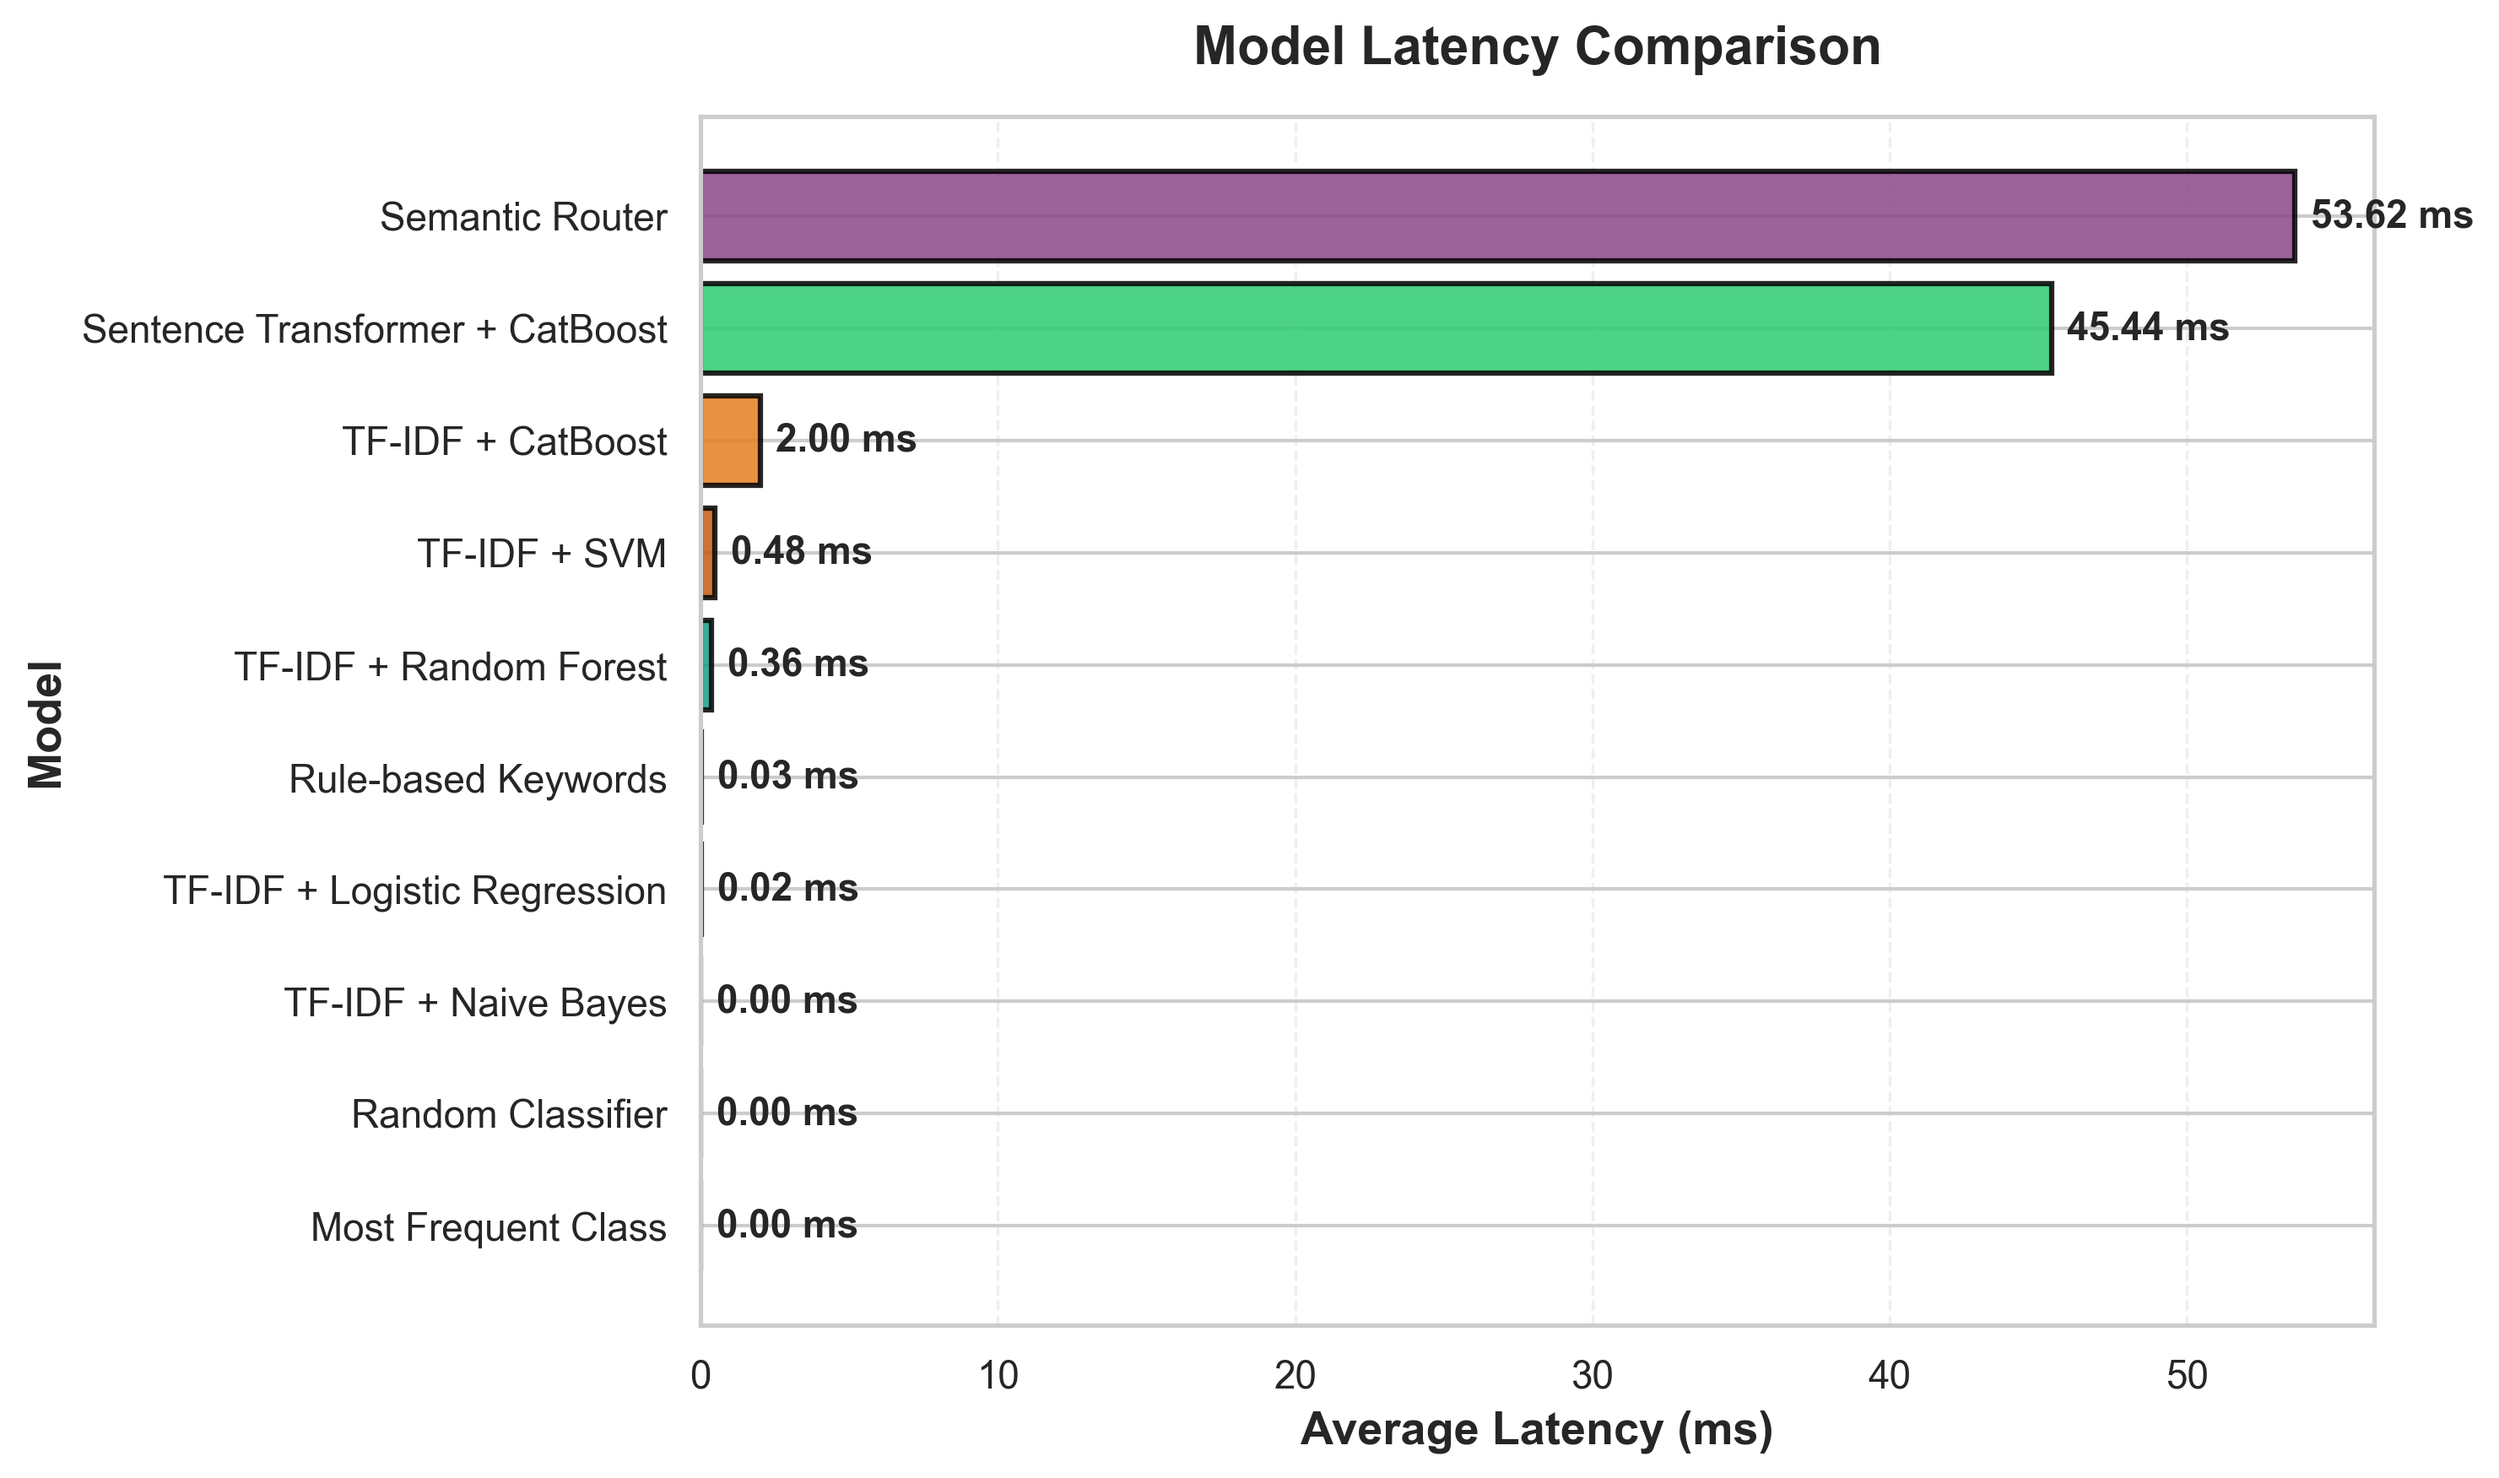
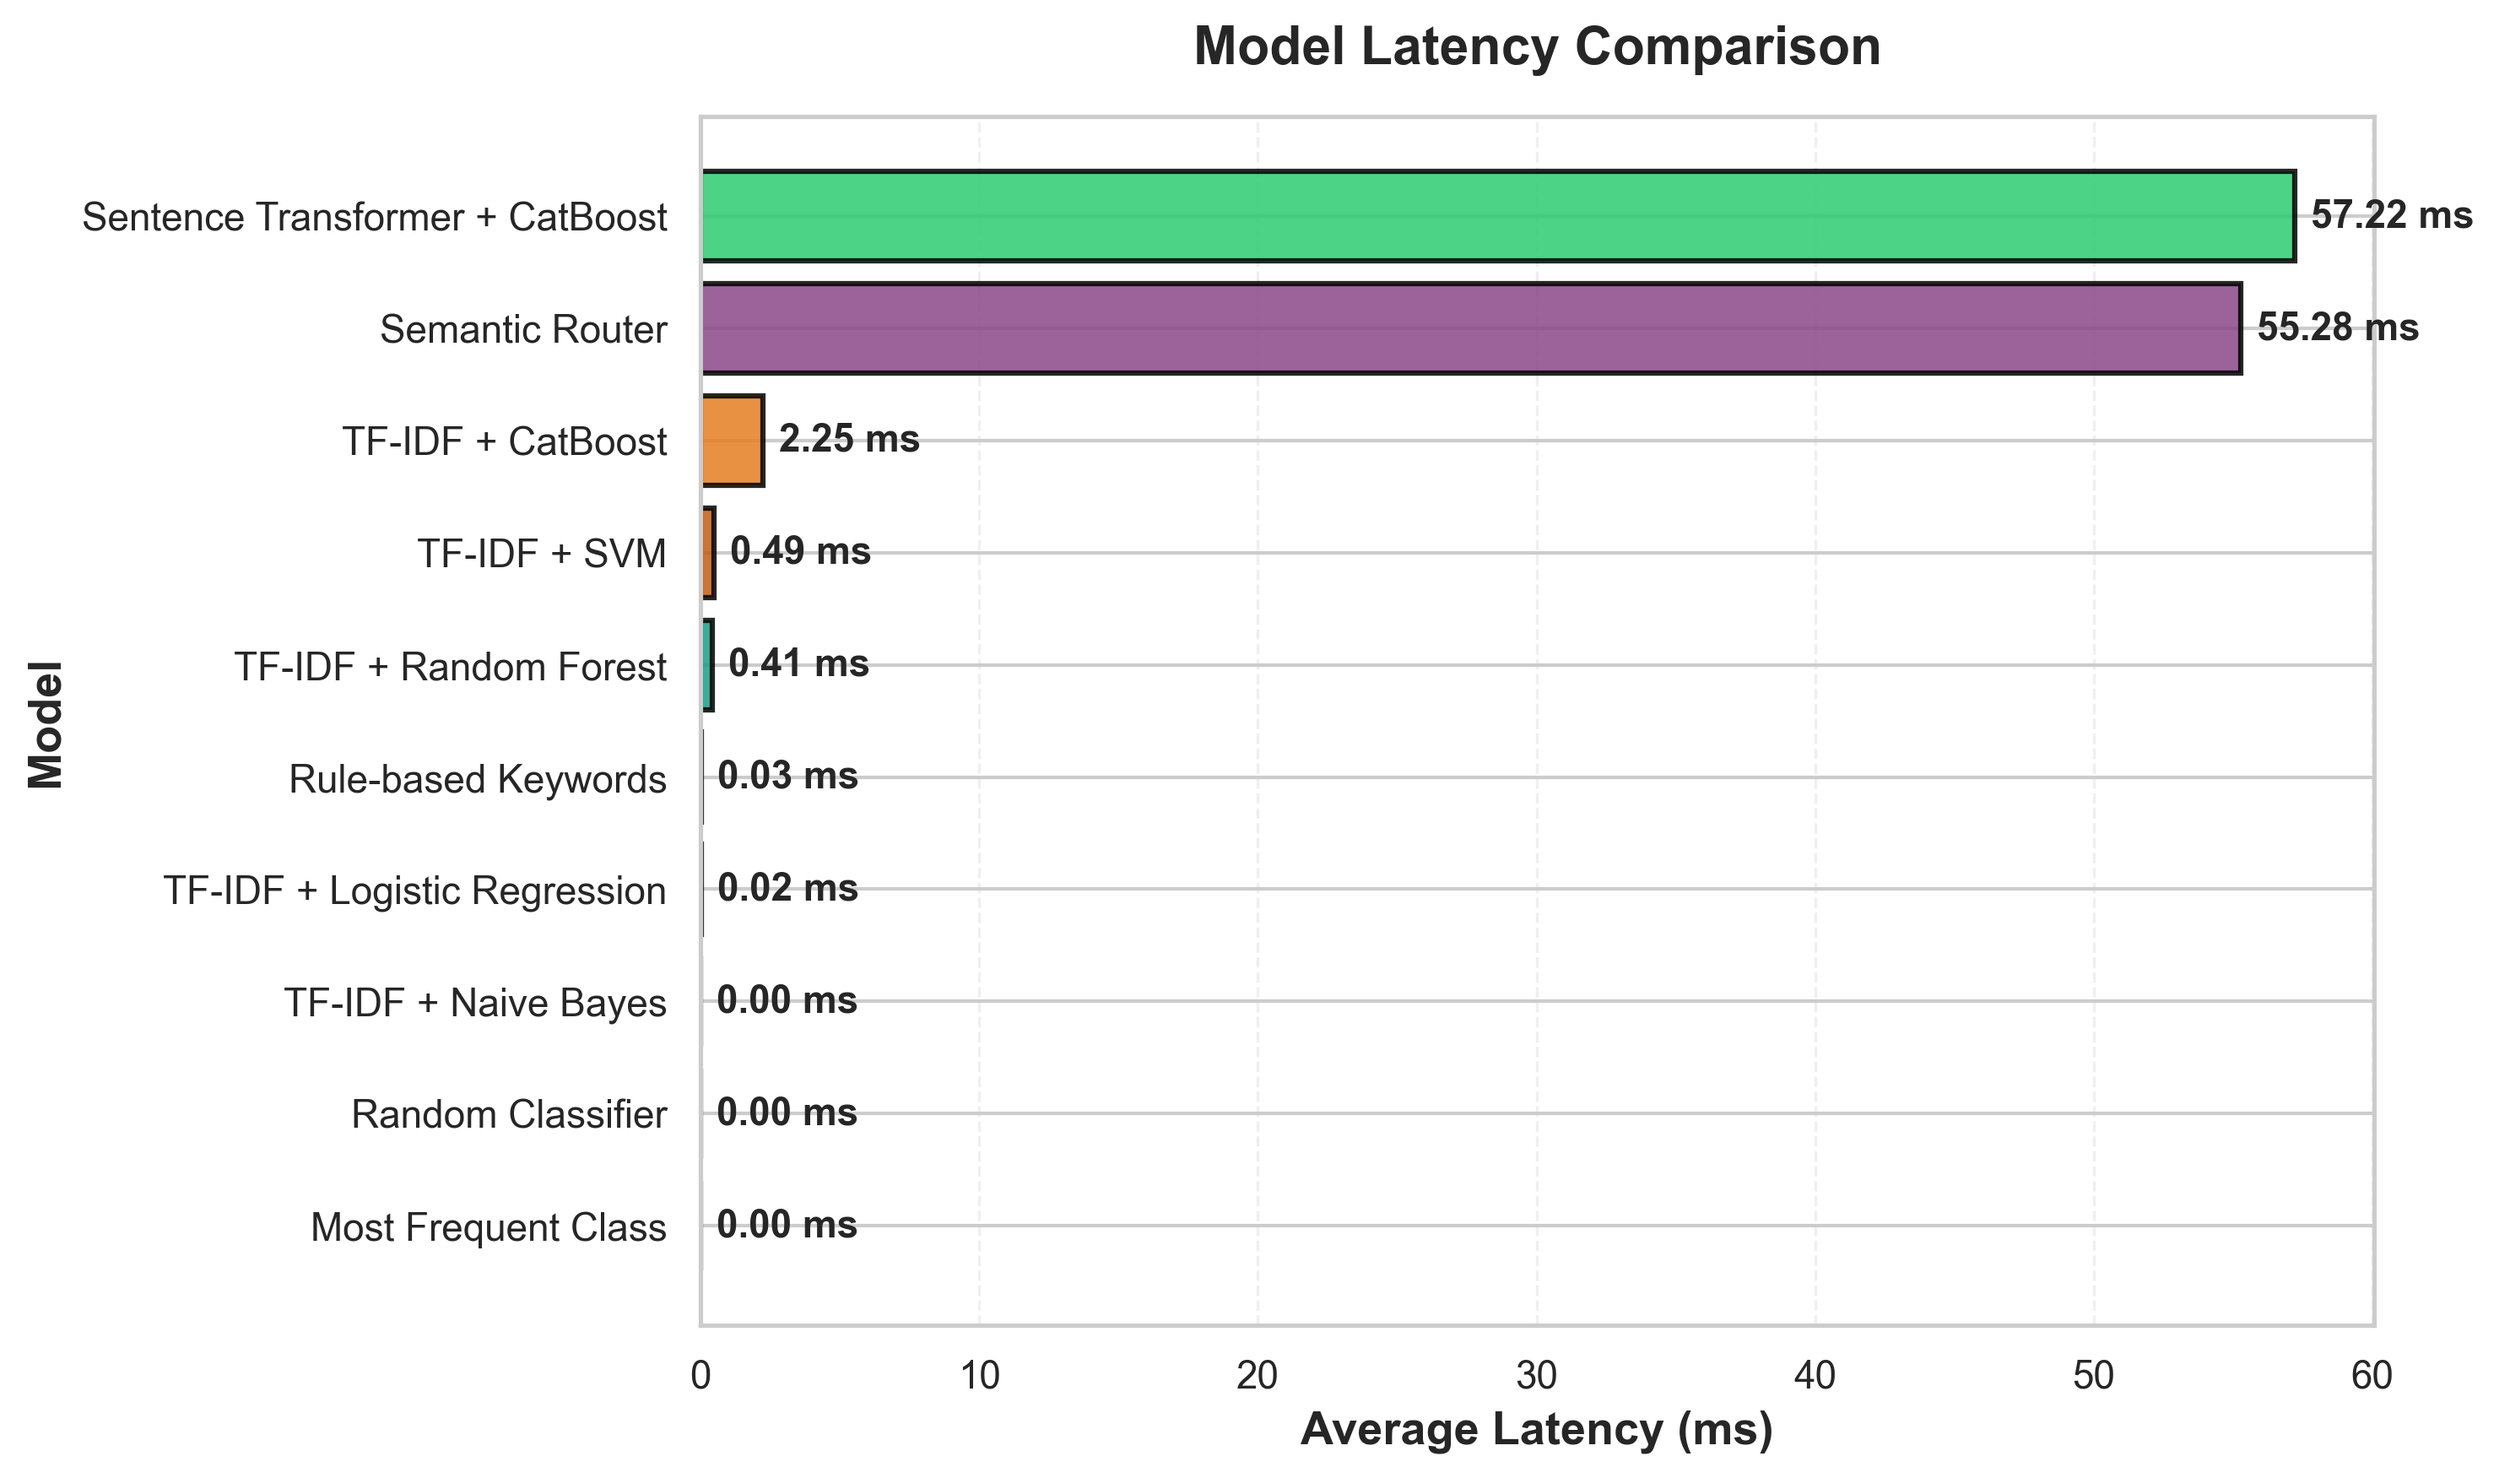
Updated eval results

diff --git a/evaluation_results/evaluation_report.md b/evaluation_results/evaluation_report.md
@@ -1,21 +1,21 @@
 # Comprehensive Evaluation Report
 
-**Date**: 2025-11-06 03:08:01
+**Date**: 2025-11-08 22:21:37
 
 ## 1. Overall Performance Comparison
 
 | Model | Accuracy | Avg Latency (ms) | Throughput (q/s) |
 |---|---|---|---|
-| **Semantic Router** | **1.000** | 53.624 | 18.65 |
-| **Sentence Transformer + CatBoost** | **0.965** | 45.439 | 22.01 |
-| **TF-IDF + Random Forest** | **0.962** | 0.362 | 2763.58 |
-| **TF-IDF + Logistic Regression** | **0.955** | 0.016 | 63371.02 |
-| **TF-IDF + SVM** | **0.949** | 0.478 | 2092.92 |
-| **TF-IDF + CatBoost** | **0.928** | 1.997 | 500.79 |
-| **TF-IDF + Naive Bayes** | **0.856** | 0.001 | 800560.39 |
-| **Rule-based Keywords** | **0.681** | 0.028 | 35195.05 |
-| **Random Classifier** | **0.352** | 0.000 | 5295675.34 |
-| **Most Frequent Class** | **0.333** | 0.000 | 7069218.94 |
+| **Semantic Router** | **1.000** | 55.278 | 18.09 |
+| **Sentence Transformer + CatBoost** | **0.965** | 57.217 | 17.48 |
+| **TF-IDF + Random Forest** | **0.962** | 0.407 | 2456.14 |
+| **TF-IDF + Logistic Regression** | **0.955** | 0.017 | 59666.32 |
+| **TF-IDF + SVM** | **0.949** | 0.491 | 2035.52 |
+| **TF-IDF + CatBoost** | **0.928** | 2.247 | 444.98 |
+| **TF-IDF + Naive Bayes** | **0.856** | 0.001 | 795887.91 |
+| **Rule-based Keywords** | **0.681** | 0.030 | 33594.53 |
+| **Random Classifier** | **0.352** | 0.000 | 5504587.13 |
+| **Most Frequent Class** | **0.333** | 0.000 | 7132243.66 |
 
 ## 2. Per-Category Performance (F1-Score)
 
